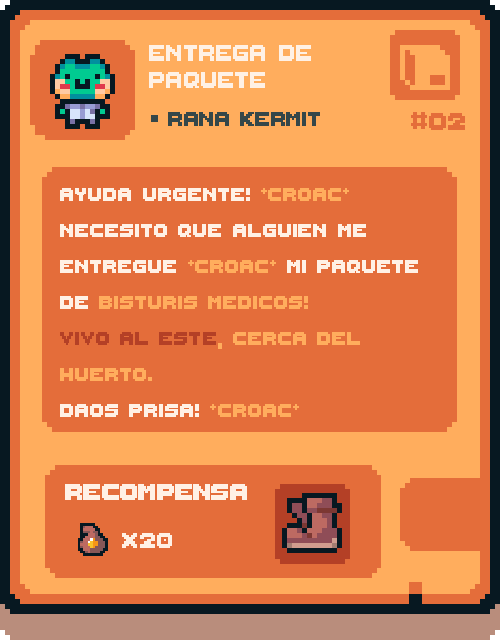
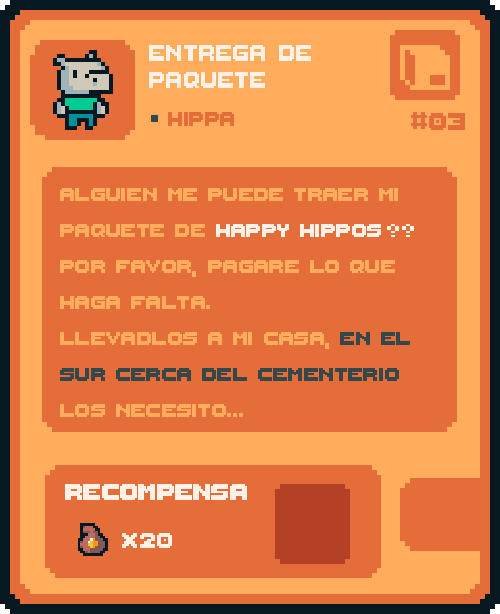
Misiones especiales
Spawn del paquete

diff --git a/MonkeyDelivery/Src/Logic/MissionObject.cpp b/MonkeyDelivery/Src/Logic/MissionObject.cpp
@@ -1,0 +1,58 @@
+#include "MissionObject.h"
+#include "MissionsPanel.h"
+#include "../Player/Player.h"
+#include "../Items/Package.h"
+
+#include "Game.h"
+
+MissionObject::MissionObject(MissionsPanel* mp, Game* g) : GameObject(g, true), missionsPanel_(mp)
+{
+	active_ = false;
+
+	setDimension(50, 50);
+	setPosition(0, 0);
+
+	string route = "./Images/missingTex.png";
+	this->texture = new Texture(g->getRenderer(), route);
+}
+
+MissionObject::~MissionObject()
+{
+	missionsPanel_ = nullptr;
+	delete texture;
+	texture = nullptr;
+}
+
+void MissionObject::onPlayerInteraction(Player* player)
+{
+	if (active_) {
+		game->getPlayer()->addMissionObject(new Package(game->getTexture(Item_Package), game, game->getPlayer()));
+		changeActive(); // quitar del mapa
+	}
+}
+
+void MissionObject::update()
+{
+}
+
+void MissionObject::draw()
+{
+	if (active_) {
+		//drawTexture(texture);
+		SDL_Rect pos = getCollider();
+
+		//Dibujamos respecto a la camara
+		pos.x -= (int)game->getCamera()->getCameraPosition().getX();
+		pos.y -= (int)game->getCamera()->getCameraPosition().getY();
+
+		texture->render(pos);
+	}
+}
+
+void MissionObject::setTexture(string tex)
+{
+	if (texture != nullptr)
+		delete texture;
+	string route = "./Images/NPCs/" + tex + ".png";
+	texture = new Texture(game->getRenderer(), route);
+}

diff --git a/MonkeyDelivery/Src/Logic/MissionObject.h b/MonkeyDelivery/Src/Logic/MissionObject.h
@@ -1,0 +1,35 @@
+#pragma once
+#include "GameObject.h"
+
+class MissionsPanel;
+
+class MissionObject : public GameObject
+{
+public:
+	MissionObject(MissionsPanel* mp, Game* g);
+	~MissionObject();
+
+	void onPlayerInteraction(Player* player) override;
+	void update() override;
+	void draw() override;
+
+	inline void changeActive() {
+		active_ = !active_;
+	};
+
+	inline bool isActive() {
+		return active_;
+	}
+
+	void setTexture(string tex);
+
+	inline void setText(const string& textName) {
+		textPath_ = textName + "Text";
+	};
+
+private:
+	MissionsPanel* missionsPanel_;
+	bool active_;
+	string textPath_;
+};
+

diff --git a/MonkeyDelivery/Src/View/TextureContainer.h b/MonkeyDelivery/Src/View/TextureContainer.h
@@ -80,7 +80,7 @@ enum TextureName
 		mission_UI_Selector,
 		Mission01,
 		Mission02,
-		Mission03,
+		Mission07,
 		MissionPanel_Interact,
 	
 	//8-Monkey SpriteSheets - 3
@@ -218,7 +218,7 @@ const TextureAttributes TEXTURE_ATTRIBUTES[NUM_TEXTURES] =
 	{"missions/mission_UI_Selector.png",1,1},
 	{"missions/Mission01.png",1,1},
 	{"missions/Mission02.png",1,1},
-	{"missions/Mission03.png",1,1},
+	{"missions/Mission07.png",1,1},
 	{"missions/MissionPanel_Interact.png",1,1},
 
 	//8-Monkey SpriteSheets

diff --git a/MonkeyDelivery/Src/Logic/Target.cpp b/MonkeyDelivery/Src/Logic/Target.cpp
@@ -35,12 +35,14 @@ void Target::onPlayerInteraction(Player* player)
 	if (active_) {
 
 		if (player->hasMissionObject()) {
-			
 
 			game->newDialogue(textPath_);
 
 			player->removeMissionObject();
 			missionsPanel_->onMissionCompleted();
+		}
+		else {
+			// activar un dialogo que diga que busques su paquete
 		}
 	}
 }
